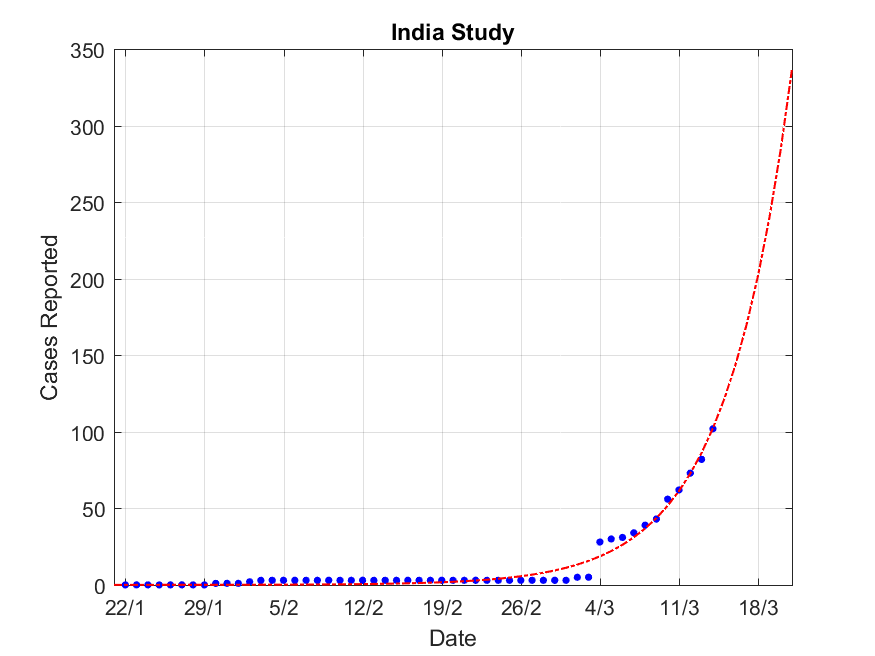
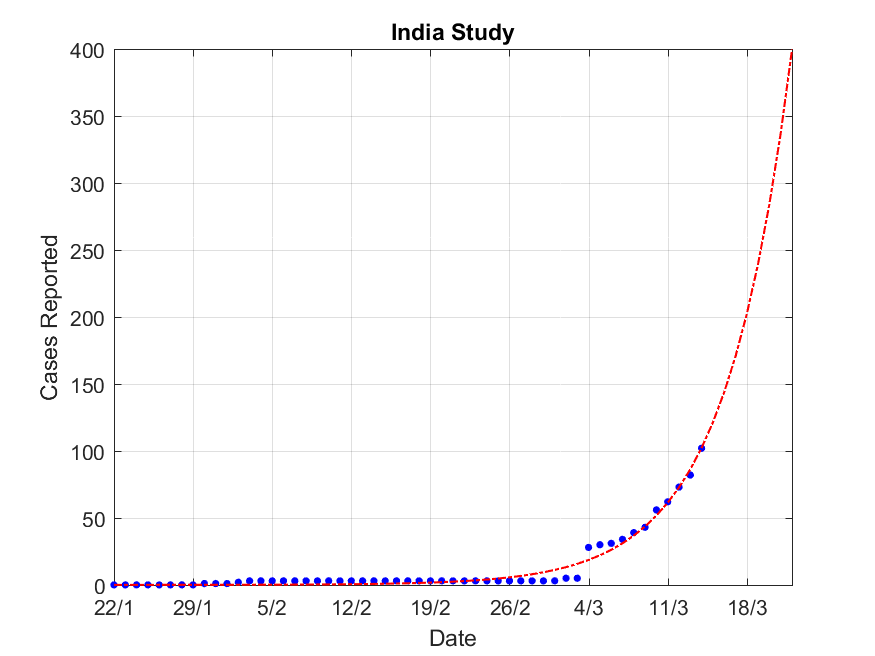
Realign xaxis to origin

diff --git a/curveFit.m b/curveFit.m
@@ -7,7 +7,7 @@ indiaCases = data(1,1:end-1);
 
 % Some vector definitions
 Ndays = 60;
-dayVec = 1:Ndays;
+dayVec = 0:Ndays;
 startDate = datetime(2020,1,22);
 
 % Plot indian cases
@@ -19,12 +19,12 @@ ylabel('Cases Reported');
 title('India Study');
 
 % Make labels to days
-xticks(1:7:Ndays)
+xticks(0:7:Ndays)
 xticklabels(generateLabels(startDate, Ndays/7));
 
 % Exponential Fit
 isolatedData = indiaCases(1:numel(indiaCases));
-isolatedDays = 1:(numel(indiaCases));
+isolatedDays = 0:(numel(indiaCases)-1);
 model1 = fit(isolatedDays', isolatedData', 'exp1');
 
 % plot fitted curve and save 
